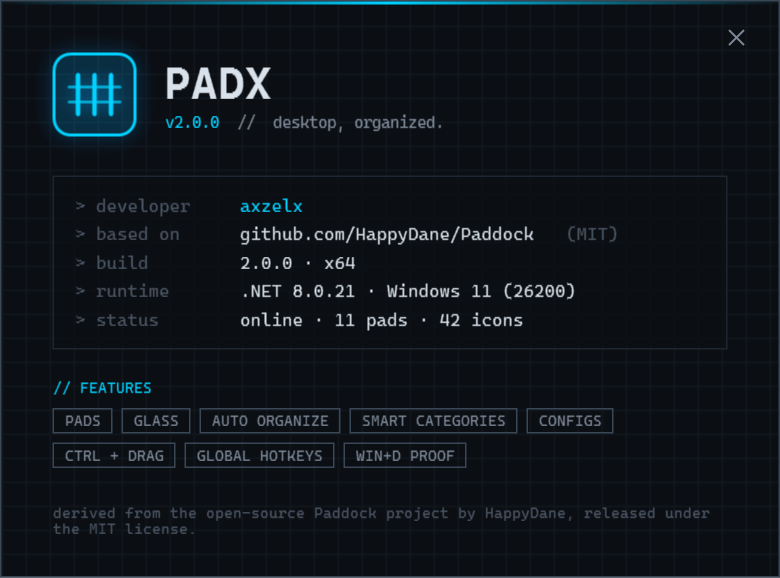
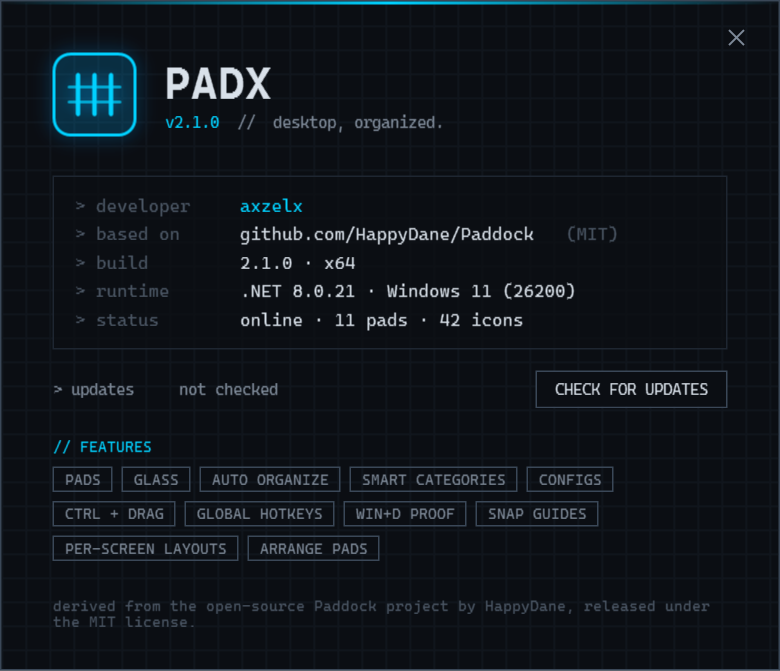
Check for updates in About (download and run the new installer); version 2.1.0; refreshed screenshots

diff --git a/src/Paddock.App/Views/AboutWindow.xaml b/src/Paddock.App/Views/AboutWindow.xaml
@@ -159,6 +159,20 @@
                     </StackPanel>
                 </Border>
 
+                <!-- Updates: only when asked, never on its own -->
+                <DockPanel Margin="0,14,0,0">
+                    <StackPanel DockPanel.Dock="Right" Orientation="Horizontal">
+                        <Button x:Name="InstallButton" Style="{StaticResource D.Button}" Content="INSTALL UPDATE"
+                                Foreground="{StaticResource D.Accent}" Margin="0,0,8,0" Visibility="Collapsed"
+                                Click="Install_Click" />
+                        <Button x:Name="CheckButton" Style="{StaticResource D.Button}" Content="CHECK FOR UPDATES"
+                                Click="Check_Click" />
+                    </StackPanel>
+                    <TextBlock x:Name="UpdateText" VerticalAlignment="Center" FontFamily="{StaticResource D.Mono}"
+                               FontSize="11" Foreground="{StaticResource D.TextDim}" TextWrapping="Wrap"
+                               Text="&gt; updates     not checked" />
+                </DockPanel>
+
                 <!-- What it does -->
                 <TextBlock Text="// FEATURES" Style="{StaticResource D.Section}" Margin="0,20,0,8" />
                 <WrapPanel>
@@ -170,6 +184,9 @@
                     <Border Style="{StaticResource Chip}"><TextBlock Text="CTRL + DRAG" Style="{StaticResource ChipText}" /></Border>
                     <Border Style="{StaticResource Chip}"><TextBlock Text="GLOBAL HOTKEYS" Style="{StaticResource ChipText}" /></Border>
                     <Border Style="{StaticResource Chip}"><TextBlock Text="WIN+D PROOF" Style="{StaticResource ChipText}" /></Border>
+                    <Border Style="{StaticResource Chip}"><TextBlock Text="SNAP GUIDES" Style="{StaticResource ChipText}" /></Border>
+                    <Border Style="{StaticResource Chip}"><TextBlock Text="PER-SCREEN LAYOUTS" Style="{StaticResource ChipText}" /></Border>
+                    <Border Style="{StaticResource Chip}"><TextBlock Text="ARRANGE PADS" Style="{StaticResource ChipText}" /></Border>
                 </WrapPanel>
 
                 <TextBlock Margin="0,18,0,0" FontFamily="{StaticResource D.Mono}" FontSize="9.5"

diff --git a/src/Paddock.App/Services/Updater.cs b/src/Paddock.App/Services/Updater.cs
@@ -1,0 +1,110 @@
+using System.Diagnostics;
+using System.IO;
+using System.Net.Http;
+using System.Text.Json;
+using Paddock.Core.Services;
+
+namespace Paddock.App.Services;
+
+/// <summary>
+/// Asks GitHub for the latest padx release and, on request, downloads its
+/// installer and hands over to it. Only ever runs when the user clicks
+/// "Check for updates" — padx makes no network calls on its own.
+/// </summary>
+internal static class Updater
+{
+    private const string LatestRelease = "https://api.github.com/repos/serkanyardim/padx/releases/latest";
+
+    private static readonly HttpClient Http = CreateClient();
+
+    public static Version CurrentVersion => typeof(App).Assembly.GetName().Version ?? new Version(0, 0, 0);
+
+    /// <summary>The latest release, or null when GitHub could not be reached.</summary>
+    public static async Task<ReleaseInfo?> GetLatestAsync()
+    {
+        try
+        {
+            using var response = await Http.GetAsync(LatestRelease);
+            if (!response.IsSuccessStatusCode)
+            {
+                Log.Warn($"Update check: GitHub answered {(int)response.StatusCode}.");
+                return null;
+            }
+
+            using var doc = JsonDocument.Parse(await response.Content.ReadAsStringAsync());
+            var root = doc.RootElement;
+
+            var version = UpdateCheck.ParseTag(root.GetProperty("tag_name").GetString());
+            if (version is null)
+                return null;
+
+            string? setup = null;
+            foreach (var asset in root.GetProperty("assets").EnumerateArray())
+            {
+                var name = asset.GetProperty("name").GetString() ?? string.Empty;
+                if (name.StartsWith("padx-setup", StringComparison.OrdinalIgnoreCase) && name.EndsWith(".exe", StringComparison.OrdinalIgnoreCase))
+                    setup = asset.GetProperty("browser_download_url").GetString();
+            }
+
+            return new ReleaseInfo(version, root.GetProperty("html_url").GetString() ?? string.Empty, setup);
+        }
+        catch (Exception ex)
+        {
+            Log.Warn($"Update check failed: {ex.Message}");
+            return null;
+        }
+    }
+
+    /// <summary>
+    /// Downloads the installer to %TEMP% and starts it. The installer replaces
+    /// padx (pads, settings and configs are kept) and starts the new version.
+    /// Returns false if the download failed; on success the caller should exit.
+    /// </summary>
+    public static async Task<bool> DownloadAndRunAsync(ReleaseInfo release, IProgress<int>? progress = null)
+    {
+        if (release.SetupUrl is null)
+            return false;
+
+        var file = Path.Combine(Path.GetTempPath(), Path.GetFileName(new Uri(release.SetupUrl).LocalPath));
+
+        try
+        {
+            using (var response = await Http.GetAsync(release.SetupUrl, HttpCompletionOption.ResponseHeadersRead))
+            {
+                response.EnsureSuccessStatusCode();
+                var total = response.Content.Headers.ContentLength ?? 0;
+
+                await using var source = await response.Content.ReadAsStreamAsync();
+                await using var target = File.Create(file);
+
+                var buffer = new byte[81920];
+                long done = 0;
+                int read;
+                while ((read = await source.ReadAsync(buffer)) > 0)
+                {
+                    await target.WriteAsync(buffer.AsMemory(0, read));
+                    done += read;
+                    if (total > 0)
+                        progress?.Report((int)(done * 100 / total));
+                }
+            }
+
+            Process.Start(new ProcessStartInfo(file) { UseShellExecute = true });
+            Log.Info($"Update: started the installer for {release.Version}.");
+            return true;
+        }
+        catch (Exception ex)
+        {
+            Log.Error("Downloading the update failed.", ex);
+            return false;
+        }
+    }
+
+    private static HttpClient CreateClient()
+    {
+        var client = new HttpClient { Timeout = TimeSpan.FromMinutes(5) };
+        client.DefaultRequestHeaders.UserAgent.ParseAdd($"padx/{CurrentVersion.ToString(3)}");
+        client.DefaultRequestHeaders.Accept.ParseAdd("application/vnd.github+json");
+        return client;
+    }
+}

diff --git a/src/Paddock.App/Views/AboutWindow.xaml.cs b/src/Paddock.App/Views/AboutWindow.xaml.cs
@@ -43,6 +43,71 @@ public partial class AboutWindow : Window
         e.Handled = true;
     }
 
+    // --- Updates ---
+
+    private Core.Services.ReleaseInfo? _latest;
+
+    private async void Check_Click(object sender, RoutedEventArgs e)
+    {
+        CheckButton.IsEnabled = false;
+        InstallButton.Visibility = Visibility.Collapsed;
+        UpdateText.Text = "> updates     checking github…";
+
+        _latest = await Services.Updater.GetLatestAsync();
+        CheckButton.IsEnabled = true;
+
+        var current = Services.Updater.CurrentVersion;
+        if (_latest is null)
+        {
+            UpdateText.Text = "> updates     couldn't reach github — try again later";
+        }
+        else if (Core.Services.UpdateCheck.IsNewer(_latest.Version, current))
+        {
+            UpdateText.Text = $"> updates     v{_latest.Version.ToString(3)} available";
+            UpdateText.Foreground = (System.Windows.Media.Brush)FindResource("D.Accent");
+            InstallButton.Visibility = _latest.SetupUrl is null ? Visibility.Collapsed : Visibility.Visible;
+            CheckButton.Content = "RELEASE NOTES";
+            CheckButton.Click -= Check_Click;
+            CheckButton.Click += (_, _) => Open(_latest.PageUrl);
+        }
+        else
+        {
+            UpdateText.Text = $"> updates     ✓ up to date (v{current.ToString(3)})";
+        }
+    }
+
+    /// <summary>Downloads the new installer, starts it and steps aside so it can replace padx.</summary>
+    private async void Install_Click(object sender, RoutedEventArgs e)
+    {
+        if (_latest is null)
+            return;
+
+        InstallButton.IsEnabled = CheckButton.IsEnabled = false;
+        var progress = new Progress<int>(p => UpdateText.Text = $"> updates     downloading v{_latest.Version.ToString(3)}… {p}%");
+
+        if (await Services.Updater.DownloadAndRunAsync(_latest, progress))
+        {
+            // The installer closes and replaces padx; leave the way clear.
+            Application.Current.Shutdown();
+            return;
+        }
+
+        UpdateText.Text = "> updates     download failed — get it from the release page";
+        InstallButton.IsEnabled = CheckButton.IsEnabled = true;
+    }
+
+    private static void Open(string url)
+    {
+        try
+        {
+            System.Diagnostics.Process.Start(new System.Diagnostics.ProcessStartInfo(url) { UseShellExecute = true });
+        }
+        catch (Exception ex)
+        {
+            Core.Services.Log.Warn($"Could not open {url}: {ex.Message}");
+        }
+    }
+
     private void Close_Click(object sender, RoutedEventArgs e) => Close();
 
     private void Window_KeyDown(object sender, KeyEventArgs e)

diff --git a/src/Paddock.Core/Services/UpdateCheck.cs b/src/Paddock.Core/Services/UpdateCheck.cs
@@ -1,0 +1,31 @@
+namespace Paddock.Core.Services;
+
+/// <summary>The newest published release, as far as an update check is concerned.</summary>
+/// <param name="Version">Release version, from its tag ("v2.1.0" → 2.1.0).</param>
+/// <param name="PageUrl">The release page on GitHub.</param>
+/// <param name="SetupUrl">Direct download of its installer, when it has one.</param>
+public sealed record ReleaseInfo(Version Version, string PageUrl, string? SetupUrl);
+
+/// <summary>Pure helpers for "is there a newer padx?" — the network call lives in the app.</summary>
+public static class UpdateCheck
+{
+    /// <summary>"v2.1.0", "2.1", "v3.0.0-beta" → a comparable version; null if it is not one.</summary>
+    public static Version? ParseTag(string? tag)
+    {
+        if (string.IsNullOrWhiteSpace(tag))
+            return null;
+
+        var text = tag.Trim().TrimStart('v', 'V');
+        var end = text.IndexOfAny(['-', '+', ' ']);
+        if (end >= 0)
+            text = text[..end];
+
+        return Version.TryParse(text, out var version) ? Normalize(version) : null;
+    }
+
+    /// <summary>True when <paramref name="latest"/> is a later version than <paramref name="current"/>.</summary>
+    public static bool IsNewer(Version latest, Version current) => Normalize(latest) > Normalize(current);
+
+    /// <summary>2.1 and 2.1.0 and 2.1.0.0 are the same release.</summary>
+    private static Version Normalize(Version v) => new(v.Major, v.Minor, Math.Max(0, v.Build));
+}

diff --git a/tests/Paddock.Core.Tests/UpdateCheckTests.cs b/tests/Paddock.Core.Tests/UpdateCheckTests.cs
@@ -1,0 +1,30 @@
+using Paddock.Core.Services;
+
+namespace Paddock.Core.Tests;
+
+public class UpdateCheckTests
+{
+    [Theory]
+    [InlineData("v2.1.0", "2.1.0")]
+    [InlineData("2.1", "2.1.0")]
+    [InlineData("V3.0.2", "3.0.2")]
+    [InlineData("v3.0.0-beta", "3.0.0")]
+    public void ParseTag_ReadsReleaseTags(string tag, string expected)
+        => Assert.Equal(Version.Parse(expected), UpdateCheck.ParseTag(tag));
+
+    [Theory]
+    [InlineData(null)]
+    [InlineData("")]
+    [InlineData("latest")]
+    public void ParseTag_RejectsNonVersions(string? tag)
+        => Assert.Null(UpdateCheck.ParseTag(tag));
+
+    [Theory]
+    [InlineData("2.1.0", "2.0.0", true)]
+    [InlineData("2.0.1", "2.0.0", true)]
+    [InlineData("2.0.0", "2.0.0.0", false)]
+    [InlineData("2.0.0", "2.1.0", false)]
+    [InlineData("10.0.0", "9.9.9", true)]
+    public void IsNewer_ComparesVersionsNotText(string latest, string current, bool newer)
+        => Assert.Equal(newer, UpdateCheck.IsNewer(Version.Parse(latest), Version.Parse(current)));
+}
